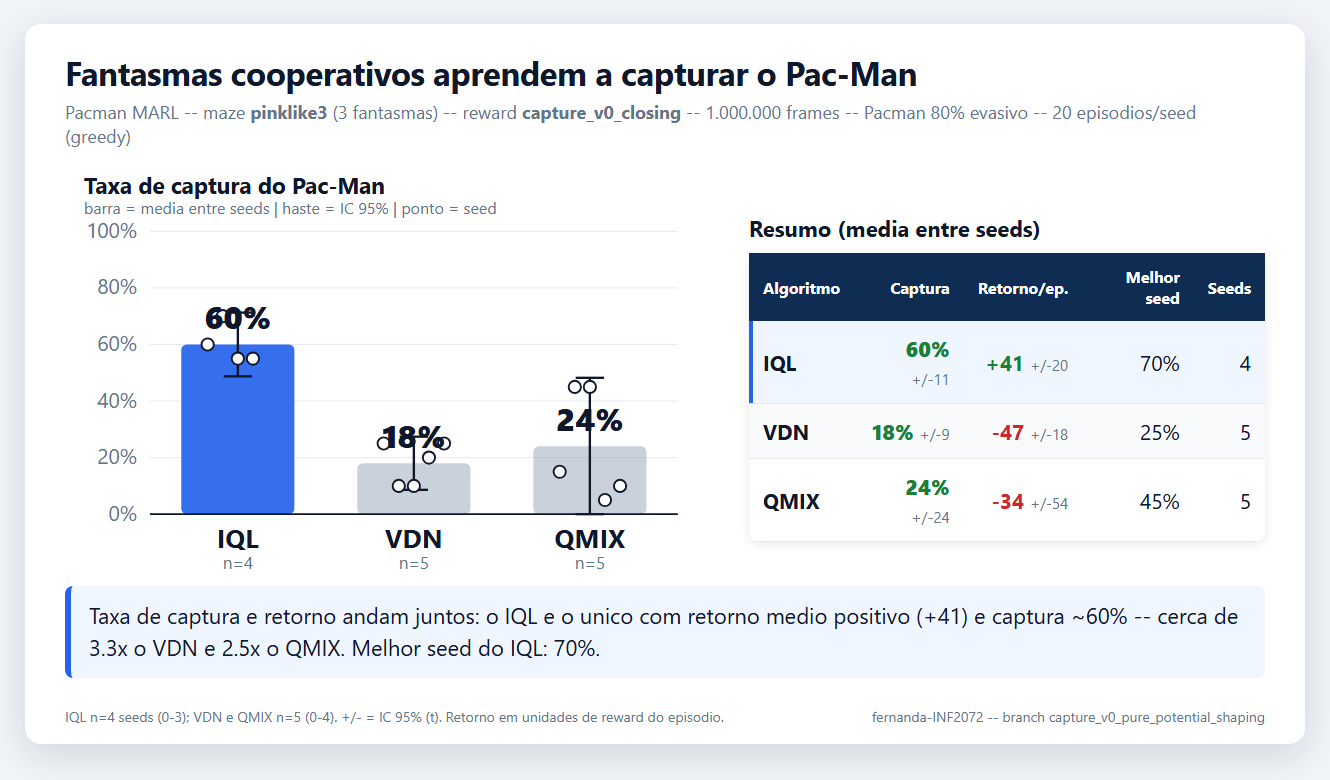
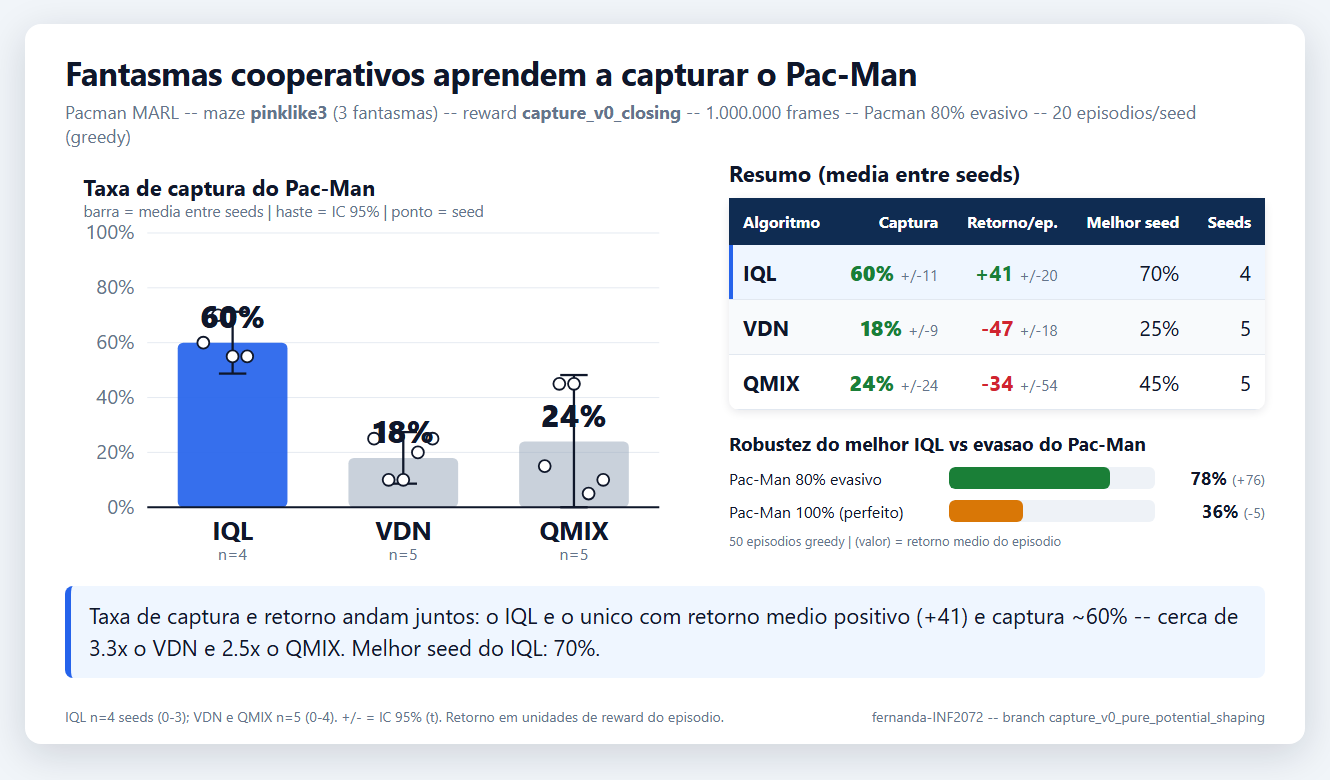
communicate 000052: training-results slide (5-seed) + eval-report-iql target
Self-contained 16:9 HTML slide (capture rate per algorithm with 95% CI and
per-seed dots; Fred-style summary table with rewards; best-IQL robustness bars
80% vs 100% evasive Pac-Man) plus a PNG preview. Adds `make eval-report-iql`
to run the headless capture-rate report for the best IQL checkpoint at any
EVASIVENESS/EVAL_EPISODES. Numbers: IQL 60% (n=4), VDN 18%, QMIX 24% (n=5);
best IQL 78% -> 36% capture at 80% -> 100% evasive.

diff --git a/_output/communication/2026-07-02/communication-000052-training-results-slide.html b/_output/communication/2026-07-02/communication-000052-training-results-slide.html
@@ -12,9 +12,18 @@
   .hdr { padding:26px 40px 0 40px; }
   h1 { margin:0; font-size:33px; letter-spacing:-.5px; }
   .sub { margin:6px 0 0; font-size:18px; color:#64748b; }
-  .row { display:flex; align-items:center; gap:24px; padding:6px 40px 0; }
-  .chart { flex:0 0 660px; }
+  .row { display:flex; align-items:flex-start; gap:24px; padding:10px 40px 0; }
+  .chart { flex:0 0 640px; }
   .side { flex:1; }
+  .diff { margin-top:20px; }
+  .dh { font-size:19px; font-weight:700; margin-bottom:10px; }
+  .brow { display:flex; align-items:center; gap:10px; margin:9px 0; }
+  .bl { flex:0 0 210px; font-size:16px; }
+  .bt { flex:1; height:22px; background:#eef2f7; border-radius:6px; overflow:hidden; }
+  .bf { display:block; height:100%; border-radius:6px; }
+  .bv { flex:0 0 100px; text-align:right; font-size:18px; font-weight:700; }
+  .bret { color:#64748b; font-size:14px; font-weight:400; }
+  .dc { font-size:13px; color:#64748b; margin-top:8px; }
   table { width:100%; border-collapse:collapse; font-size:21px; border-radius:10px; overflow:hidden;
           box-shadow:0 2px 10px rgba(15,23,42,.10); }
   caption { text-align:left; font-size:22px; font-weight:700; padding-bottom:10px; }
@@ -104,6 +113,7 @@
 <tr><td class="alg">QMIX</td><td class="pos"><b>24%</b> <span class="ci">+/-24</span></td><td class="neg">-34 <span class="ci">+/-54</span></td><td>45%</td><td>5</td></tr>
           </tbody>
         </table>
+        <div class="diff"><div class="dh">Robustez do melhor IQL vs evasao do Pac-Man</div><div class="brow"><span class="bl">Pac-Man 80% evasivo</span><span class="bt"><span class="bf" style="width:78%;background:#1a7f37"></span></span><span class="bv">78% <span class="bret">(+76)</span></span></div><div class="brow"><span class="bl">Pac-Man 100% (perfeito)</span><span class="bt"><span class="bf" style="width:36%;background:#d97706"></span></span><span class="bv">36% <span class="bret">(-5)</span></span></div><div class="dc">50 episodios greedy | (valor) = retorno medio do episodio</div></div>
       </div>
     </div>
     <div class="insight">Taxa de captura e retorno andam juntos: o IQL e o unico com retorno medio positivo (+41) e captura ~60% -- cerca de 3.3x o VDN e 2.5x o QMIX. Melhor seed do IQL: 70%.</div>
